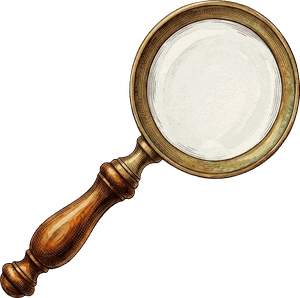
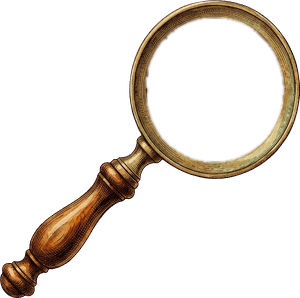
Older sheets of the survey lie under the chart, askew; the reading glass shows the leather beneath it magnified, with the light caught on the glass

Changed region(s): [[0.48, 0.0302, 0.96, 0.5738]]

diff --git a/index.html b/index.html
@@ -12555,9 +12555,45 @@ function drawSheetBorder(w, cs, ch, facePad) {
       if (cx2 + size < 0 || cx2 - size > viewW || py + size < 0 || py - size > viewH) continue;
       ctx.save(); ctx.translate(cx2, py); ctx.rotate(rot);
       ctx.shadowColor = 'rgba(0, 0, 0, 0.6)'; ctx.shadowBlur = size * 0.04; ctx.shadowOffsetX = size * 0.025; ctx.shadowOffsetY = size * 0.04;
+      const lens = name === 'desk_glass' ? { x: (216.5 / 300 - 0.5) * iw, y: (89.5 / 298 - 0.5) * ih, rx: iw * 0.235, ry: ih * 0.25 } : null;
+      if (lens) {
+        // through the lens, the leather beneath it, magnified (the glass's own rim is laid over its edge)
+        const desk = owDeskPattern();
+        ctx.save(); ctx.shadowColor = 'transparent'; ctx.beginPath(); ctx.ellipse(lens.x, lens.y, lens.rx, lens.ry, 0, 0, Math.PI * 2); ctx.clip();
+        if (desk) { desk.setTransform(new DOMMatrix().translate(lens.x, lens.y).scale(1.6).translate(-lens.x, -lens.y)); ctx.fillStyle = desk; ctx.fillRect(lens.x - lens.rx, lens.y - lens.ry, lens.rx * 2, lens.ry * 2); }
+        ctx.fillStyle = 'rgba(10, 6, 2, 0.14)'; ctx.fillRect(lens.x - lens.rx, lens.y - lens.ry, lens.rx * 2, lens.ry * 2);
+        ctx.restore();
+      }
       ctx.drawImage(img, -iw / 2, -ih / 2, iw, ih);
+      if (lens) {
+        // and the window's light caught on the glass
+        const lx = lens.x, ly = lens.y, lr = lens.rx * 0.95;
+        ctx.save(); ctx.shadowColor = 'transparent'; ctx.beginPath(); ctx.ellipse(lx, ly, lr, lens.ry * 0.95, 0, 0, Math.PI * 2); ctx.clip();
+        const glint = ctx.createRadialGradient(lx - lr * 0.38, ly - lr * 0.42, lr * 0.05, lx - lr * 0.2, ly - lr * 0.2, lr * 1.1);
+        glint.addColorStop(0, 'rgba(255, 250, 235, 0.5)'); glint.addColorStop(0.35, 'rgba(255, 245, 225, 0.1)'); glint.addColorStop(1, 'rgba(0, 0, 0, 0.3)');
+        ctx.fillStyle = glint; ctx.fillRect(lx - lr, ly - lr * 1.2, lr * 2, lr * 2.4);
+        ctx.strokeStyle = 'rgba(255, 248, 230, 0.35)'; ctx.lineWidth = Math.max(1, lr * 0.05); ctx.beginPath(); ctx.arc(lx, ly, lr * 0.8, Math.PI * 1.05, Math.PI * 1.45); ctx.stroke();
+        ctx.restore();
+      }
       ctx.restore();
     }
+  }
+  // older sheets of the survey lie under this one, a little askew, their edges showing past it
+  {
+    const ow = bw + gap * 5.2, oh = bh + gap * 7.28, mcx = bx - gap * 2.6 + ow / 2, mcy = by - gap * 2.6 + oh / 2;
+    const paper = owPaperPattern(ctx);
+    const outside = new Path2D(); outside.rect(-viewW, -viewH, viewW * 3, viewH * 3); outside.rect(mcx - ow / 2, mcy - oh / 2, ow, oh);
+    ctx.save(); ctx.clip(outside, 'evenodd'); // (only where they show past the top sheet)
+    for (const [rot, dx, dy, tone] of [[-0.011, -gap * 0.8, gap * 1.6, '#a8916a'], [0.008, gap * 1.4, gap * 0.6, '#b8a178']]) {
+      ctx.save(); ctx.translate(mcx + dx, mcy + dy); ctx.rotate(rot);
+      ctx.shadowColor = 'rgba(0, 0, 0, 0.55)'; ctx.shadowBlur = Math.max(6, gap * 2); ctx.shadowOffsetX = gap * 0.4; ctx.shadowOffsetY = gap * 0.7;
+      ctx.fillStyle = tone; ctx.fillRect(-ow / 2, -oh / 2, ow, oh);
+      ctx.shadowColor = 'transparent';
+      if (paper) { ctx.globalCompositeOperation = 'multiply'; ctx.fillStyle = paper; ctx.fillRect(-ow / 2, -oh / 2, ow, oh); ctx.globalCompositeOperation = 'source-over'; }
+      ctx.strokeStyle = 'rgba(60, 40, 20, 0.35)'; ctx.lineWidth = 1; ctx.strokeRect(-ow / 2, -oh / 2, ow, oh);
+      ctx.restore();
+    }
+    ctx.restore();
   }
   // the sheet lies on the table: its shadow falls on the wood around it (clipped to outside the sheet)
   {
